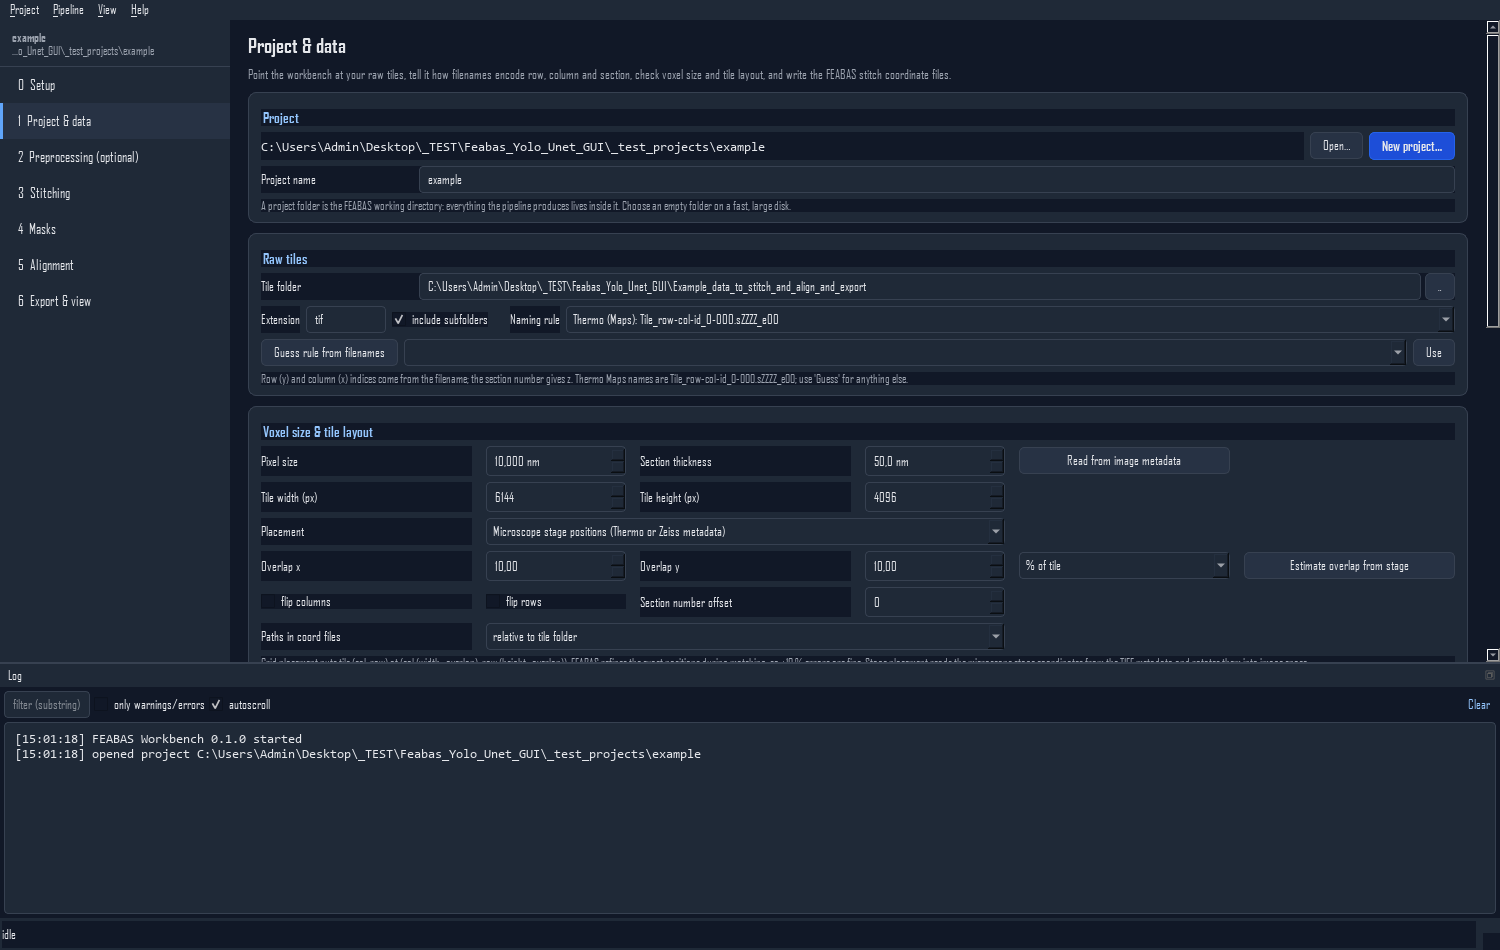
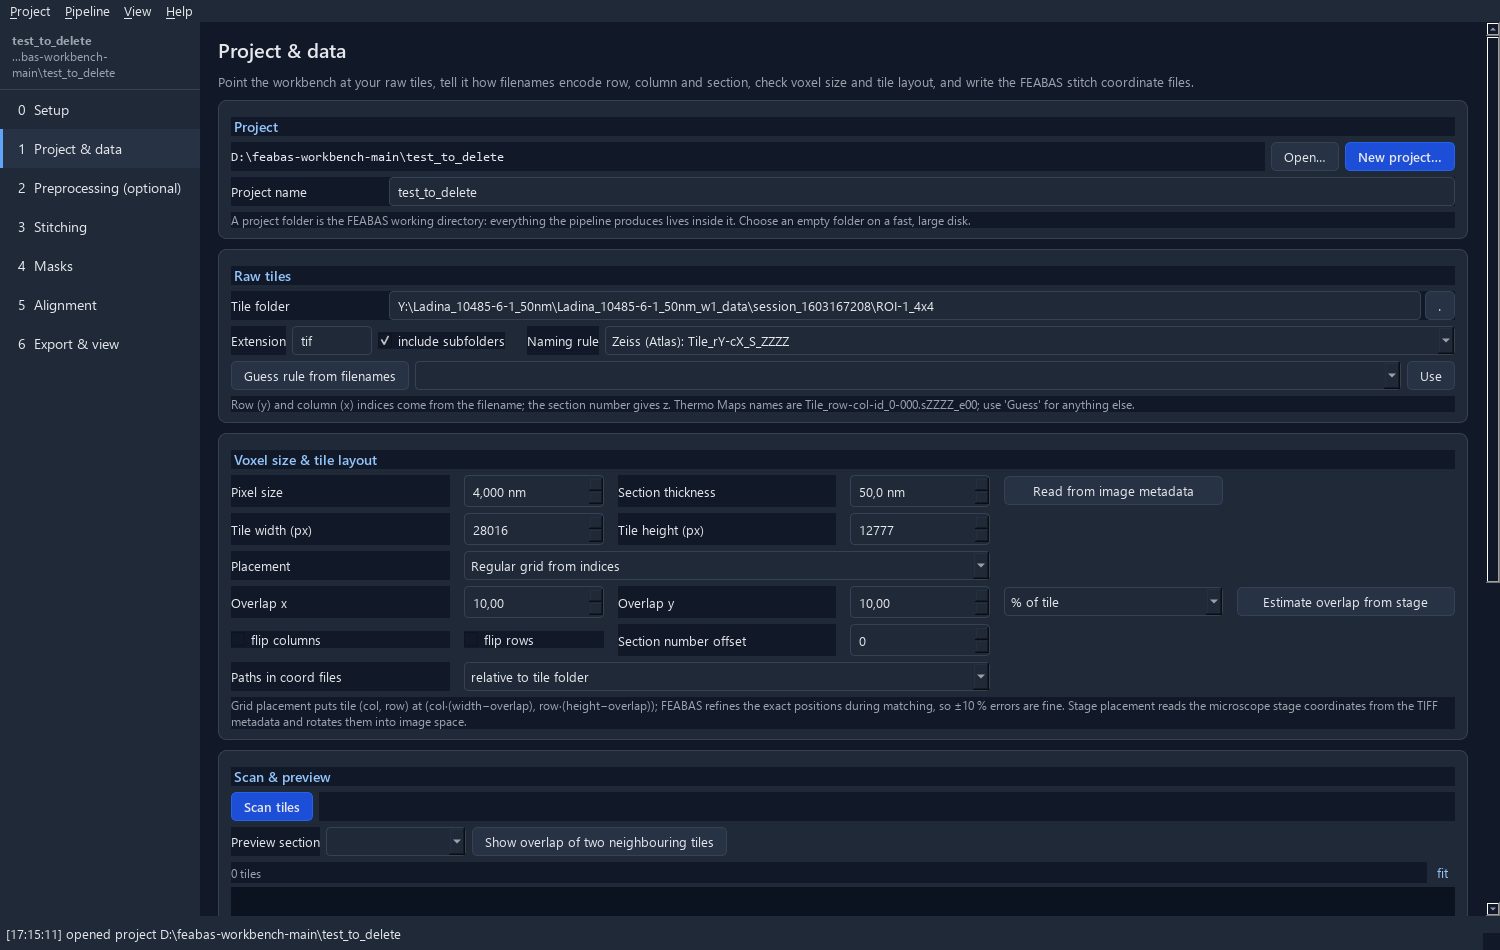
ruff (pyflakes level) in CI, dead code removed, consistent README screenshots
ruff with select = ["F", "E9"] (unused imports/variables, undefined names,
syntax errors); the deliberate one-line widget style is not policed. It
removed 41 unused imports and found a wasted remove_small() call in
masks.fill_holes and an unused variable in structure_match. app.py drops
its window reference with `win = None` instead of `del`, which pyflakes
could not follow into the closure.

Screenshots of windows 1, 3 and 6 regenerated with the same font, size and
project as windows 4 and 5.

diff --git a/feabas_workbench/ui/pages/page_align.py b/feabas_workbench/ui/pages/page_align.py
@@ -6,14 +6,13 @@ import json
 from pathlib import Path
 
 import numpy as np
-from PySide6.QtCore import Qt
-from PySide6.QtWidgets import (QCheckBox, QComboBox, QHBoxLayout, QLabel, QLineEdit, QMessageBox, QPushButton,
-                               QSplitter, QTabWidget, QVBoxLayout, QWidget, QPlainTextEdit)
+from PySide6.QtWidgets import (QComboBox, QHBoxLayout, QLabel, QLineEdit, QMessageBox, QPushButton,
+                               QSplitter, QTabWidget, QVBoxLayout, QWidget)
 
 from ...core.steps import PipelineScan, write_fine_match_list, read_fine_match_list
 from ...core.testruns import create_align_test, list_test_runs, delete_test_run, TestRun
 from ...core.maskstore import MaskStore
-from ...core.images import imread, to_uint8, compose_two_color, downsample
+from ...core.images import imread, to_uint8, compose_two_color
 from ...core.configs import suggest_working_mip
 from ..widgets import PathPicker, ImageView, SectionPicker, ConfigEditor, card, hint, form_row, spin, dspin, combo, labelled
 from ..widgets.steps_panel import StepsPanel

diff --git a/feabas_workbench/ui/main_window.py b/feabas_workbench/ui/main_window.py
@@ -6,13 +6,13 @@ from pathlib import Path
 
 from PySide6.QtCore import Qt, QTimer
 from PySide6.QtGui import QAction, QKeySequence
-from PySide6.QtWidgets import (QDialog, QDialogButtonBox, QDockWidget, QFileDialog, QHBoxLayout, QInputDialog, QLabel,
+from PySide6.QtWidgets import (QDockWidget, QFileDialog, QHBoxLayout, QInputDialog, QLabel,
                                QListWidget, QListWidgetItem, QMainWindow, QMessageBox, QProgressBar, QPushButton,
-                               QStackedWidget, QVBoxLayout, QWidget, QSplitter)
+                               QStackedWidget, QVBoxLayout, QWidget)
 
 from .. import APP_NAME, __version__
 from ..core.envs import Settings
-from ..core.steps import STEPS, STEPS_BY_KEY, clear_targets, clear_step, create_snapshot, list_snapshots, restore_snapshot, estimate_snapshot_size
+from ..core.steps import STEPS, clear_targets, clear_step, create_snapshot, list_snapshots, restore_snapshot, estimate_snapshot_size
 from .bridge import AppContext
 from .widgets.log_panel import LogPanel
 from . import theme

diff --git a/feabas_workbench/ui/pages/page_stitch.py b/feabas_workbench/ui/pages/page_stitch.py
@@ -4,15 +4,13 @@ from __future__ import annotations
 
 from pathlib import Path
 
-import numpy as np
-from PySide6.QtCore import Qt
 from PySide6.QtWidgets import (QComboBox, QHBoxLayout, QLabel, QLineEdit, QMessageBox, QPushButton, QSplitter,
                                QTabWidget, QVBoxLayout, QWidget, QCheckBox)
 
-from ...core.steps import STEPS_BY_KEY, PipelineScan
+from ...core.steps import PipelineScan
 from ...core.testruns import create_montage_test, list_test_runs, delete_test_run, parse_stitch_coord, TestRun
 from ...core.images import TiledSectionSource, TensorStoreSource
-from ..widgets import ConfigEditor, ImageView, SectionPicker, TileGridWidget, card, hint, form_row, spin, dspin, combo
+from ..widgets import ConfigEditor, ImageView, SectionPicker, TileGridWidget, card, hint, spin, dspin, combo
 from ..widgets.steps_panel import StepsPanel
 from ..widgets.imageview import RectSpec
 from .base import Page

diff --git a/feabas_workbench/ui/pages/page_export.py b/feabas_workbench/ui/pages/page_export.py
@@ -4,13 +4,12 @@ from __future__ import annotations
 
 from pathlib import Path
 
-import numpy as np
 from PySide6.QtWidgets import (QCheckBox, QComboBox, QHBoxLayout, QLabel, QLineEdit, QMessageBox, QPushButton,
                                QTabWidget, QVBoxLayout, QWidget)
 
-from ...core.images import TiledSectionSource, TensorStoreSource, find_precomputed_scales
+from ...core.images import TiledSectionSource
 from ...core.httpserve import VolumeServer
-from ..widgets import PathPicker, ImageView, ConfigEditor, card, hint, form_row, spin, combo
+from ..widgets import PathPicker, ImageView, ConfigEditor, card, hint, spin, combo
 from ..widgets.steps_panel import StepsPanel
 from ..external import open_in_vast, open_in_fiji_folder
 from .base import Page

diff --git a/feabas_workbench/ui/pages/page_project.py b/feabas_workbench/ui/pages/page_project.py
@@ -4,9 +4,9 @@ from __future__ import annotations
 
 from pathlib import Path
 
-from PySide6.QtCore import Qt, QThread, Signal, QObject
+from PySide6.QtCore import QThread, Signal, QObject
 from PySide6.QtWidgets import (QCheckBox, QComboBox, QFileDialog, QGridLayout, QHBoxLayout, QLabel, QLineEdit,
-                               QListWidget, QMessageBox, QPushButton, QVBoxLayout, QWidget, QPlainTextEdit)
+                               QMessageBox, QPushButton, QPlainTextEdit)
 
 from ...core import tiles as T
 from ...core.project import Project

diff --git a/feabas_workbench/ui/pages/page_preprocess.py b/feabas_workbench/ui/pages/page_preprocess.py
@@ -6,11 +6,9 @@ import sys
 from pathlib import Path
 
 import numpy as np
-from PySide6.QtCore import QObject, QThread, Signal
 from PySide6.QtWidgets import (QCheckBox, QComboBox, QHBoxLayout, QLabel, QLineEdit, QListWidget, QMessageBox,
                                QPushButton, QRadioButton, QVBoxLayout, QWidget, QSplitter)
 
-from ...core import tiles as T
 from ...core import histmatch as H
 from ...core.images import imread, downsample, to_uint8
 from ...core.testruns import retarget_stitch_coords, parse_stitch_coord

diff --git a/feabas_workbench/ui/pages/page_setup.py b/feabas_workbench/ui/pages/page_setup.py
@@ -6,8 +6,8 @@ import sys
 from pathlib import Path
 
 from PySide6.QtCore import QObject, QThread, Signal
-from PySide6.QtWidgets import (QCheckBox, QComboBox, QHBoxLayout, QLabel, QLineEdit, QMessageBox, QPushButton,
-                               QVBoxLayout, QWidget, QPlainTextEdit)
+from PySide6.QtWidgets import (QCheckBox, QComboBox, QHBoxLayout, QLabel, QMessageBox, QPushButton,
+                               QPlainTextEdit)
 
 from ...core import envs as E
 from ...core.jobs import JobSpec

diff --git a/feabas_workbench/core/maskstore.py b/feabas_workbench/core/maskstore.py
@@ -19,7 +19,7 @@ import numpy as np
 
 from .masks import (TissueParams, detect_tissue, compose_material_mask, resize_mask, read_mask, write_mask,
                     LABEL_WRINKLE, LABEL_DEFAULT, LABEL_EXCLUDE, structure_material_mask, mask_stats,
-                    padding_mask, footprint_mask, roi_from_tform, border_band, montage_extent)
+                    footprint_mask, roi_from_tform, border_band, montage_extent)
 from .images import imread
 
 

diff --git a/feabas_workbench/ui/bridge.py b/feabas_workbench/ui/bridge.py
@@ -13,7 +13,7 @@ from PySide6.QtCore import QObject, Signal
 
 from ..core.configs import ConfigStore
 from ..core.envs import Settings, check_imports
-from ..core.jobs import JobQueue, JobSpec, JobResult, worker_env, feabas_env
+from ..core.jobs import JobQueue, JobSpec, worker_env, feabas_env
 from ..core.project import Project, VENDOR_DIR
 from ..core.steps import PipelineScan, Step, count_outputs, thumbnail_progress, step_argv, expected_outputs
 

diff --git a/feabas_workbench/ui/dialogs.py b/feabas_workbench/ui/dialogs.py
@@ -4,7 +4,7 @@ from __future__ import annotations
 
 import numpy as np
 from PySide6.QtCore import Qt
-from PySide6.QtWidgets import QDialog, QHBoxLayout, QLabel, QPushButton, QSlider, QVBoxLayout
+from PySide6.QtWidgets import QDialog, QLabel, QPushButton, QVBoxLayout
 
 from ..core.images import imread, downsample, compose_two_color, to_uint8
 from .widgets.imageview import ImageView

diff --git a/feabas_workbench/core/masks.py b/feabas_workbench/core/masks.py
@@ -483,7 +483,6 @@ def remove_thin(mask: np.ndarray, min_width: int) -> np.ndarray:
 
 def fill_holes(mask: np.ndarray, max_px: int) -> np.ndarray:
     inv = ~mask
-    small_holes = inv & ~remove_small(inv, max_px)
     # holes touching the border are background, not holes
     cv2 = _cv2()
     n, lab, stats, _ = cv2.connectedComponentsWithStats(inv.astype(np.uint8), connectivity=4)

diff --git a/feabas_workbench/ui/widgets/tile_grid.py b/feabas_workbench/ui/widgets/tile_grid.py
@@ -56,7 +56,6 @@ class TileGridWidget(QWidget):
         else:
             self.view.set_image(None)
             if self.tiles:
-                import numpy as np
                 W = max(t.x + t.w for t in self.tiles.values())
                 H = max(t.y + t.h for t in self.tiles.values())
                 self.view._level0_size = (int(W), int(H))
